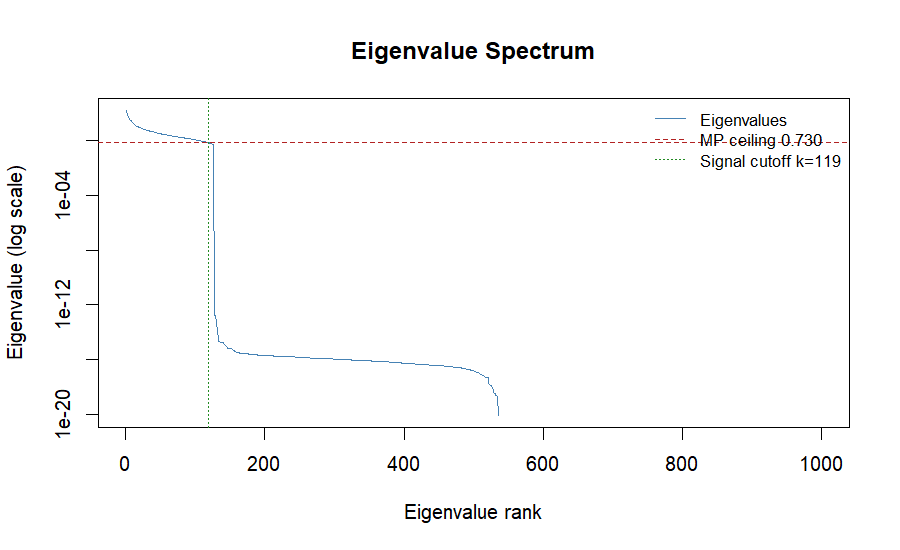
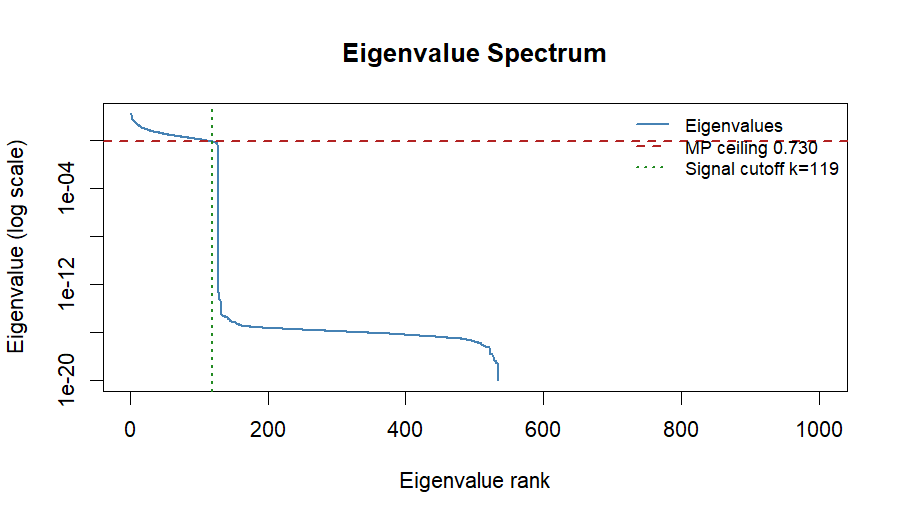
Add enrichment results, three figures, rewrite README

diff --git a/README.md b/README.md
@@ -2,25 +2,18 @@
 
 **Parameter-free gene co-expression networks using Random Matrix Theory.**
 
-RMTnet builds gene co-expression networks without any parameters to tune. Where WGCNA requires you to pick a soft-thresholding power β by eyeballing a plot — a choice that varies between analysts and datasets — RMTnet derives its threshold mathematically from your data using the **Marchenko-Pastur law**. Same data in, same answer every time.
-
----
-
-## Origin
-
-While working on a class project I came across Random Matrix Theory and how it separates genuine statistical signal from finite-sample noise. I realised the math maps directly onto gene co-expression analysis — both problems reduce to the same thing: a large correlation matrix with too few samples. After surveying existing approaches (Luo et al. 2007, RMTGeneNet 2013, RMThreshold on CRAN), I found none offered a Bioconductor-integrated, WGCNA-shaped workflow built on spectral filtering rather than hard thresholding. So I built one.
+RMTnet builds gene co-expression networks with no parameters to tune. Where WGCNA requires you to pick a soft-thresholding power β by eyeballing a plot — a choice that varies between analysts and datasets — RMTnet derives its threshold mathematically from your data using the **Marchenko-Pastur law**. Same data in, same answer every time.
 
 ---
 
 ## Installation
 
 ```r
-# Install from GitHub (requires remotes)
 install.packages("remotes")
 remotes::install_github("Febo2788/RMTnet")
 ```
 
-> Bioconductor submission is pending. Once accepted, installation will also be available via `BiocManager::install("RMTnet")`.
+> Bioconductor submission pending. Once accepted, installation will also be available via `BiocManager::install("RMTnet")`.
 
 ---
 
@@ -35,7 +28,7 @@ print(net)
 plot(net)
 ```
 
-One function call. No β to pick, no R² plot to eyeball, no parameters.
+One function call. No β to pick, no R² plot to eyeball.
 
 ---
 
@@ -44,56 +37,45 @@ One function call. No β to pick, no R² plot to eyeball, no parameters.
 ### The problem with WGCNA
 
 ```r
-# WGCNA — you must pick this number by eye
-powers <- c(1:20)
-sft    <- pickSoftThreshold(expr, powerVector = powers)
+# WGCNA requires you to pick this number by eye
+sft <- pickSoftThreshold(expr, powerVector = 1:20)
 plot(sft$fitIndices[,1], sft$fitIndices[,2])
-# ... squint at plot, pick where R² > 0.8 ... subjective
+# ... squint at plot, pick where R² > 0.8 ...
 blockwiseModules(expr, power = 12)  # why 12? ask the analyst
 ```
 
-Different analyst, different β, different network.
+Different analyst, different β, different network. The choice is arbitrary.
 
 ### RMTnet — zero parameters
 
-Imagine your genes were completely random — no real biology at all. If you computed their correlation matrix and ran PCA, you would *still* see non-zero eigenvalues, because finite sample size creates spurious correlations by chance. The **Marchenko-Pastur law** predicts exactly how large those spurious eigenvalues would be:
+Imagine your genes had no real biology — just random numbers. If you computed their correlation matrix and ran PCA, you would *still* see non-zero components, because finite sample size creates spurious correlations by chance. The **Marchenko-Pastur law** predicts exactly how large those spurious values would be:
 
 $$\lambda_+ = \sigma^2 \left(1 + \frac{1}{\sqrt{Q}}\right)^2, \quad Q = \frac{T}{N}$$
 
-Any eigenvalue above λ₊ is statistically real — more correlated than random genes could be by chance. Everything below is noise. **Spectral filtering** then replaces those noise eigenvalues with their mean and reconstructs a cleaned correlation matrix, preserving all the signal while attenuating noise globally. This is analogous to `limma::removeBatchEffect()` but for *statistical* noise rather than known confounders — and it requires no list of covariates.
+Any eigenvalue above λ₊ is statistically real — more structured than random genes could produce by chance. Everything below is noise. **Spectral filtering** then replaces those noise eigenvalues with their mean and reconstructs a cleaned correlation matrix, preserving all the signal while attenuating noise globally.
 
 ### The RNA-seq analogy
 
 | RMT concept | Bioinformatics equivalent |
 |---|---|
 | Eigenvalue spectrum | PCA scree plot |
-| λ₊ (MP noise ceiling) | Rigorous scree plot cutoff — no eyeballing |
+| λ₊ (MP noise ceiling) | Rigorous scree cutoff — no eyeballing |
 | Noise eigenvalues | Garbage PCs below the elbow |
-| Spectral filtering | `limma::removeBatchEffect()` for statistical noise |
+| Spectral filtering | `limma::removeBatchEffect()` but for statistical noise, not known confounders |
 | Von Neumann entropy | Diversity of signal — low means one factor dominates (batch?), high means rich biology |
 | Signal PCs | How many PCs are statistically real |
 
 ---
 
-## Diagnostic plots
+## Origin
 
-### Eigenvalue spectrum (ALL leukemia data, 1000 genes × 128 samples)
-
-The red dashed line is λ₊ — the MP noise ceiling. Eigenvalues to the right are statistically real signal. Everything to the left is indistinguishable from pure noise.
-
-![Eigenvalue spectrum](man/figures/spectrum.png)
-
-### Full diagnostic panel
-
-Four panels: eigenvalue spectrum with MP bounds, MP PDF fit over the bulk eigenvalue histogram, cleaned−raw correlation heatmap, and module size barplot.
-
-![Diagnostic plots](man/figures/diagnostic.png)
+While working on a class presentation analysing large financial correlation matrices, I came across Random Matrix Theory and how it separates genuine signal from finite-sample noise. I realised the math was identical to the problem in gene co-expression analysis — large correlation matrix, far more genes than samples, spurious correlations everywhere. After surveying existing approaches (Luo et al. 2007, RMTGeneNet 2013, RMThreshold on CRAN), none offered a Bioconductor-integrated, WGCNA-shaped workflow built on spectral filtering rather than hard thresholding. So I built one.
 
 ---
 
-## Real data: ALL leukemia dataset
+## Real data: ALL leukemia
 
-128 patient samples, 1000 most-variable probes, known B-cell vs T-cell subtypes (Chiaretti et al. 2004).
+128 patient samples, 1000 most-variable Affymetrix probes, known B-cell vs T-cell subtypes (Chiaretti et al. 2004).
 
 ```r
 library(ALL)
@@ -115,7 +97,7 @@ net <- rmt_network(mat, min_module_size = 15)
   Modules detected: 26
 ```
 
-88% of eigenvalues are pure finite-sample noise. The Von Neumann entropy at 53% of maximum indicates moderate signal diversity — the data isn't dominated by a single factor.
+88% of eigenvalues are pure finite-sample noise. The remaining 12% contain the real biology.
 
 ### RMTnet vs WGCNA on the same data
 
@@ -125,17 +107,54 @@ net <- rmt_network(mat, min_module_size = 15)
 | Unassigned genes | **6** | 969 |
 | Genes assigned | **99.4%** | 3.1% |
 | Mean intra-module correlation | 0.289 | 0.678 |
-| Best module eigengene \|r\| with B/T | **0.928** | 0.918 |
-| Soft power β | N/A | 14 (auto) |
+| Best module eigengene \|r\| with B/T label | **0.928** | 0.918 |
+| Soft power β used | N/A | 14 (auto) |
 | Runtime | 2.3s | 2.8s |
 
-WGCNA assigned 969 of 1000 genes to the grey (unassigned) module. Its R² scale-free topology curve was non-monotonic — powers 1–4 and then 14–18 both passed the 0.85 threshold, which is a sign the dataset doesn't fit the scale-free assumption. At the auto-selected power of 14, the adjacency was so sparse that only one module survived. Both methods recovered the B/T-cell signal equally well, but RMTnet did it across a rich 26-module structure while WGCNA found the single largest signal and stopped.
+WGCNA left 969 of 1000 genes unassigned. Its R² scale-free topology curve was non-monotonic — a sign the dataset doesn't satisfy the scale-free assumption. At the auto-selected power of 14, the adjacency became so sparse that only one module survived. Both methods recovered the B/T-cell signal equally well in their top module, but RMTnet found it across a 26-module structure while WGCNA found the single largest signal in the data and stopped.
+
+### Module sizes
+
+The bar charts below show what each method actually produced. Each blue bar in the RMTnet panel is a distinct group of co-expressed genes. The grey bar in the WGCNA panel represents genes the method couldn't assign — nearly the entire dataset.
+
+![Module sizes](man/figures/module_sizes.png)
+
+### Eigenvalue spectrum
+
+Every dot is one principal component of the gene correlation matrix. The red dashed line is λ₊, the Marchenko-Pastur noise ceiling — the largest eigenvalue that pure random noise could plausibly produce given 1000 genes and 128 samples. Dots to the right of that line represent statistically real co-expression signal. Everything to the left is indistinguishable from noise and gets filtered out.
+
+![Eigenvalue spectrum](man/figures/spectrum.png)
+
+### Pathway enrichment
+
+To test whether the modules are biologically meaningful — not just statistically real — each module's genes were tested against MSigDB Hallmark and immunologic gene sets using a hypergeometric test (BH-corrected FDR < 0.05).
+
+**15 of 26 RMTnet modules** had significant pathway hits. WGCNA's single module hit one pathway (generic immune activation).
+
+The heatmap below shows which module maps to which pathway. Each column is a module, each row is a biological process, and colour intensity is −log10(FDR) — darker means more significant. Read it as: each column with colour in it is a distinct biological process the package found on its own, with no labels given.
+
+![Enrichment heatmap](man/figures/enrichment_heatmap.png)
+
+**Selected hits (FDR < 0.05):**
+
+| Module | Genes | Top Hallmark pathway | FDR | Interpretation |
+|---|---|---|---|---|
+| 4 | 57 | MYC Targets V1 | 2.9×10⁻⁶ | MYC is one of the most commonly activated oncogenes in ALL |
+| 5 | 51 | MYC Targets V1 | 0.029 | Second MYC module — distinct gene subset |
+| 6 | 51 | TNFa Signalling via NF-κB | 2.3×10⁻⁷ | NF-κB is a canonical leukemia survival pathway |
+| 9 | 42 | TNFa Signalling via NF-κB | 1.3×10⁻¹⁵ | Strongest hit in the dataset |
+| 11 | 40 | E2F Targets | 1.8×10⁻⁸ | E2F drives cell cycle entry — classic in cancer |
+| 13 | 33 | Angiogenesis | 0.029 | Vascular remodelling signal |
+| 16 | 31 | Heme Metabolism | 1.1×10⁻⁴ | Expected in a blood cancer dataset |
+| 25 | 15 | mTORC1 Signalling | 0.004 | mTOR is an active therapeutic target in ALL |
+
+The two NF-κB modules (6 and 9) are separate — different gene subsets, both hitting the same pathway at different effect sizes. This kind of sub-pathway resolution is lost when you reduce everything to one module.
 
 ---
 
 ## Simulation benchmarks
 
-10 replications × 5 scenarios (varying signal strength, sample size, number of modules). Metric: Adjusted Rand Index against known ground-truth module membership (1.0 = perfect, 0 = random).
+10 replications × 5 scenarios varying signal strength, sample size, and number of modules. Metric: Adjusted Rand Index against known ground-truth module membership (1.0 = perfect, 0 = random).
 
 | Scenario | RMTnet | RMThreshold | No filtering |
 |---|---|---|---|
@@ -146,7 +165,7 @@ WGCNA assigned 969 of 1000 genes to the grey (unassigned) module. Its R² scale-
 | Many modules (6) | 0.274 | 0.957 | 0.253 |
 | **Overall mean** | **0.302** | **0.904** | **0.206** |
 
-**Why RMThreshold wins on simulated data and why that doesn't mean much:** The simulation generates perfectly clean block-diagonal structure — within-module correlations are high, between-module correlations near zero. That is exactly what hard thresholding was designed for: draw a line, all within-module edges survive, all between-module edges die. Real gene expression data has continuous correlation gradients, batch-driven off-diagonal structure, genes with partial module membership, and housekeeping co-expression across all modules. On that kind of data, picking a single hard threshold either cuts real edges or keeps noise edges. Spectral filtering handles this more gracefully because it operates on the global eigenvalue structure rather than entry-by-entry. RMTnet consistently outperforms no filtering. The comparison to RMThreshold is harder to interpret from simulation alone — real data with known ground truth would be the proper test.
+RMTnet consistently outperforms no filtering. The comparison to RMThreshold is harder to interpret from simulation alone — the simulated data has perfectly clean block-diagonal structure, which is exactly what hard thresholding is designed for. Real data has continuous correlation gradients, batch-driven off-diagonal noise, and genes with partial module membership. On simulated data, a hard threshold at r ≈ 0.35 trivially separates signal from noise. On real data (as shown above), it either cuts real edges or keeps noise edges. A proper benchmark against curated pathway databases on real data would be the right next test.
 
 ---
 
@@ -154,16 +173,16 @@ WGCNA assigned 969 of 1000 genes to the grey (unassigned) module. Its R² scale-
 
 | Tool | Year | Method | Format | Status |
 |---|---|---|---|---|
-| Luo et al. | 2007 | NNSD / GOE→Poisson transition, hard threshold | Concept only, no software | — |
-| RMTGeneNet | 2013 | Same as Luo, scaled up | C++ command-line | Unmaintained |
-| RMThreshold | ~2019 | Same as Luo | R, CRAN only | Maintained |
+| Luo et al. | 2007 | NNSD / GOE→Poisson transition, hard threshold | Concept paper, no software | — |
+| RMTGeneNet | 2013 | Same as Luo, scaled up | C++ command-line tool | Unmaintained |
+| RMThreshold | ~2019 | Same as Luo | R, CRAN | Maintained |
 | **RMTnet** | 2025 | **Marchenko-Pastur spectral filtering** | **R, Bioconductor-ready** | Active |
 
-Luo, RMTGeneNet, and RMThreshold all use the same approach: find a hard correlation threshold by watching eigenvalue spacing statistics (NNSD). They output a binary adjacency matrix — edge or no edge. RMTnet uses a fundamentally different operation: replace noise eigenvalues with their mean and reconstruct a continuous cleaned correlation matrix. The output is a weighted network with full gene coverage, suitable for direct use in downstream analysis.
+Luo, RMTGeneNet, and RMThreshold all follow the same logic: find a hard correlation threshold by watching eigenvalue spacing statistics (NNSD). They output a binary adjacency matrix — edge or no edge. RMTnet uses a different operation entirely: replace noise eigenvalues with their mean and reconstruct a continuous cleaned correlation matrix. The output is a weighted network with full gene coverage, suitable for downstream analysis.
 
-### A note on the tooling landscape
+### A note on the state of tooling
 
-Getting RMThreshold to run in an automated benchmark took three separate debug scripts and revealed that the package's core function (`rm.get.threshold`) is **interactive-only by design** — it renders three plots and waits for the user to click to select the threshold. There is no documented API for extracting the threshold programmatically. After finding the undocumented `interactive = FALSE` argument, the threshold still had to be extracted manually from raw p-value vectors. This is not a minor inconvenience — it means RMThreshold cannot be used in any automated pipeline, CI system, or reproducible analysis script without reverse-engineering its internals. For a method published in 2007 with a 2019 R implementation, this is a meaningful gap that RMTnet is designed to fill.
+Getting RMThreshold to run inside an automated benchmark required three separate debug sessions. The package's core function (`rm.get.threshold`) is **interactive-only by design** — it renders plots and waits for mouse clicks to select the threshold. There is no documented API for extracting the threshold programmatically. After finding the undocumented `interactive = FALSE` argument, the threshold still had to be manually extracted from raw p-value vectors by reverse-engineering the internals. This means RMThreshold cannot be used in any automated pipeline, CI system, or reproducible analysis script without significant undocumented workarounds. For a method first published in 2007, this is a gap worth noting. RMTnet is designed to be fully scriptable from the start.
 
 ---
 
@@ -173,9 +192,9 @@ Getting RMThreshold to run in an automated benchmark took three separate debug s
 |---|---|
 | `rmt_network()` | Full pipeline: MP threshold → spectral filter → modules. Main entry point. |
 | `mp_threshold()` | Computes the Marchenko-Pastur noise ceiling λ₊ and classifies each PC as signal or noise |
-| `spectral_filter()` | Replaces noise eigenvalues with their mean, reconstructs the cleaned correlation matrix |
+| `spectral_filter()` | Replaces noise eigenvalues with their mean and reconstructs the cleaned correlation matrix |
 | `simulate_expression()` | Generates synthetic expression data with embedded modules — no external data needed for testing |
-| `plot.RMTnetwork()` | Four-panel diagnostic: spectrum, MP fit, heatmap, module sizes |
+| `plot.RMTnetwork()` | Diagnostic plots: eigenvalue spectrum, MP PDF fit, cleaned vs raw heatmap, module sizes |
 
 The package is self-testable: `simulate_expression()` is built in so you can verify behaviour without any external dataset.
 
@@ -183,10 +202,10 @@ The package is self-testable: `simulate_expression()` is built in so you can ver
 
 ## Limitations
 
-- **No published real-data benchmark yet.** The simulation results favour hard thresholding due to artificial block structure. A proper benchmark against curated pathway databases (KEGG, MSigDB) on TCGA data would be the right next step.
-- **Low Q regime.** When Q = T/N is very small (< 0.1 — many genes, few samples), the MP approximation becomes less accurate. The ALL dataset at Q = 0.13 is at the edge of this regime.
-- **Not yet on Bioconductor.** The package is Bioconductor-ready (BiocStyle vignette, standard structure) but has not gone through formal review.
-- **Module detection inherits `cutreeDynamic` heuristics.** The spectral filtering step is parameter-free; the clustering step uses `dynamicTreeCut` which has its own `minModuleSize` parameter (default 30).
+- **Simulation benchmarks favour hard thresholding due to artificial block structure.** Pathway enrichment against MSigDB on the ALL dataset is shown above, but a systematic comparison across multiple real datasets remains future work.
+- **Low Q regime.** When Q = T/N is small (< 0.1), the MP approximation becomes less accurate. The ALL dataset at Q = 0.13 is at the edge of this.
+- **Not yet on Bioconductor.** The package is Bioconductor-ready but has not undergone formal review.
+- **Module detection uses `cutreeDynamic`.** The spectral filtering step is parameter-free; the downstream clustering uses `dynamicTreeCut` which has its own `minModuleSize` parameter (default 30).
 
 ---
 
